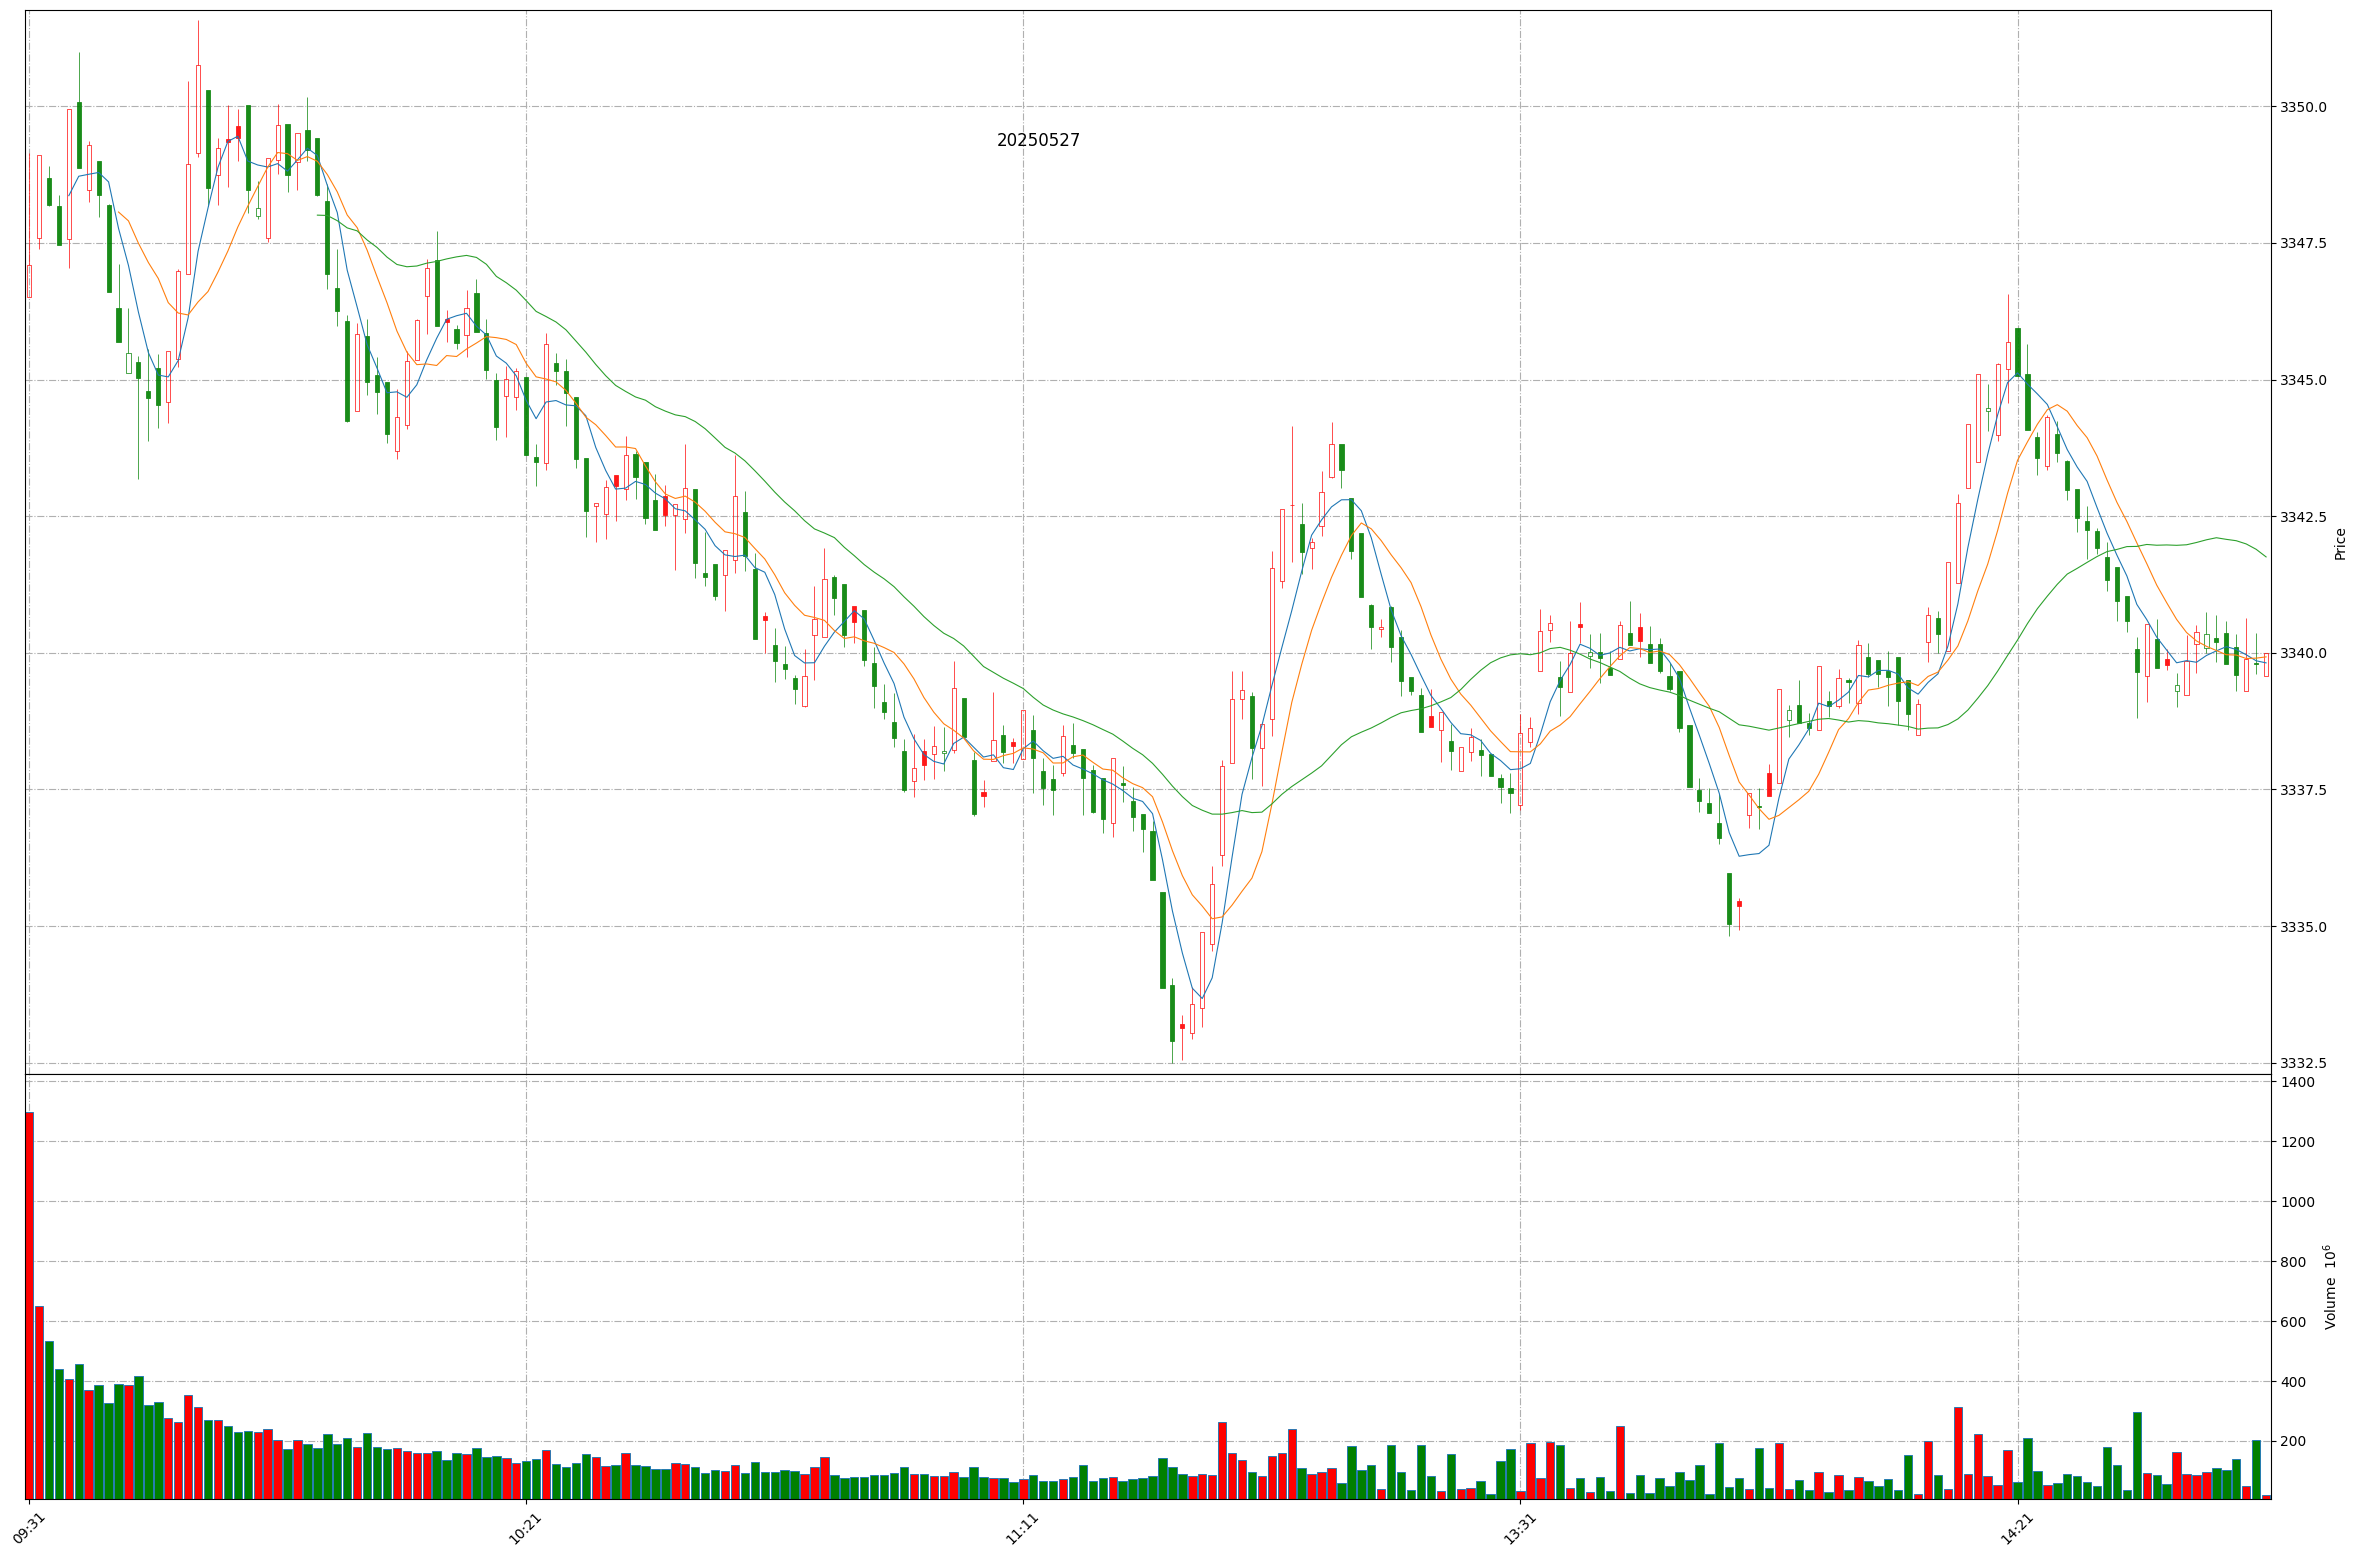
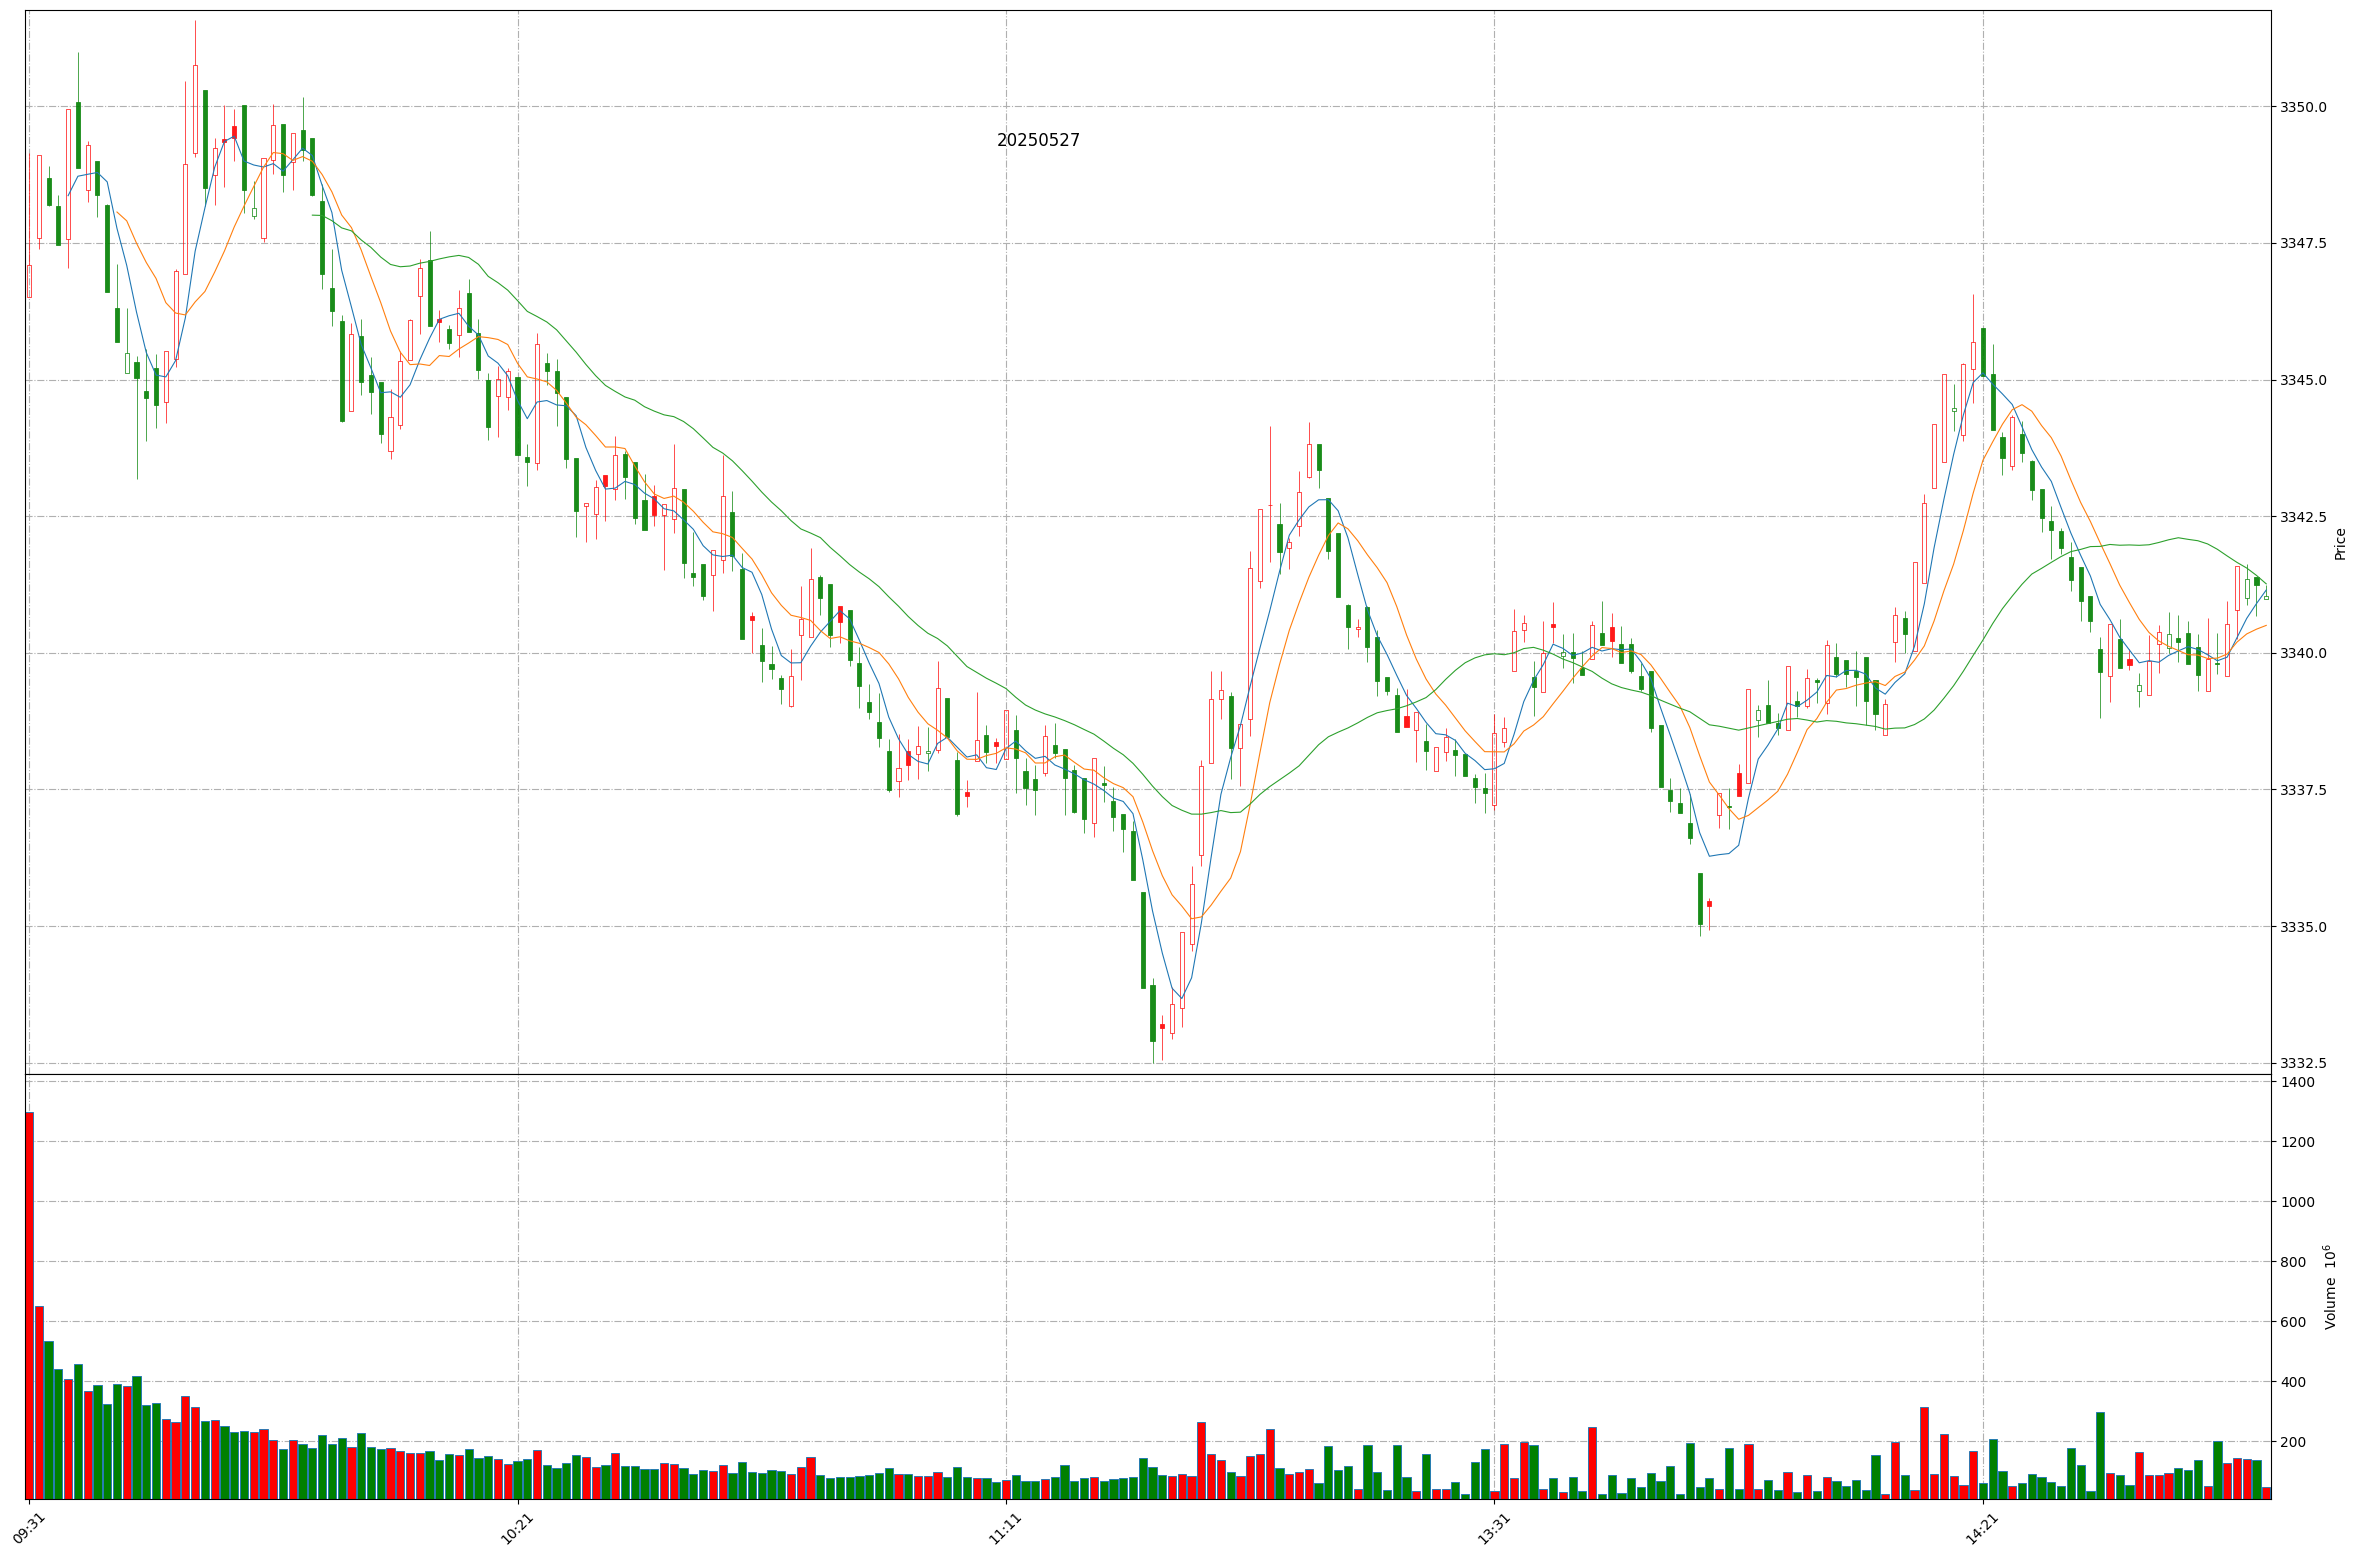
Github action update at 2025-05-27 14:50:09.

diff --git a/README.md b/README.md
@@ -1,11 +1,11 @@
 
 # Daily-A-share-market-quotes 每日 A 股指数（5min 更新）- 20250527
 
-### 上证指数 20250527 14:45
+### 上证指数 20250527 14:50
 ![](./fig/2025/5/20250527-sh000001.png)
 
-### 深证成指 20250527 14:45
+### 深证成指 20250527 14:50
 ![](./fig/2025/5/20250527-sz399001.png)
 
-### 北证50 20250527 14:45
+### 北证50 20250527 14:50
 ![](./fig/2025/5/20250527-bj899050.png)
